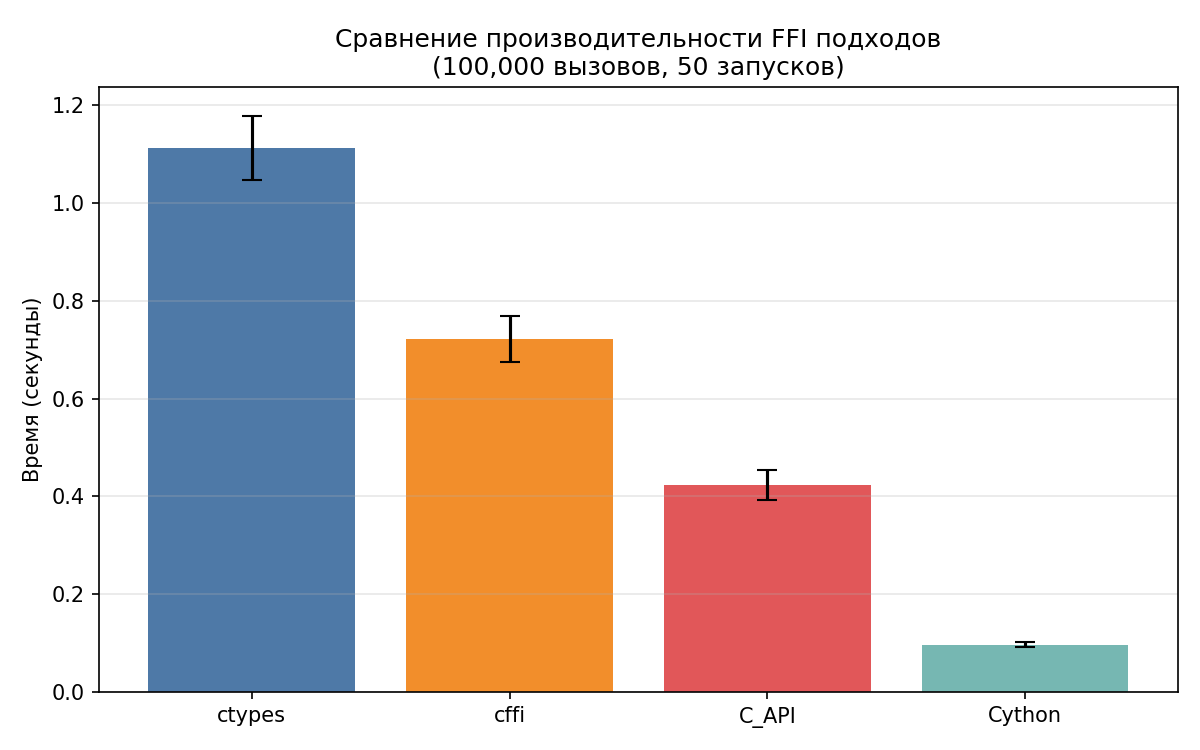
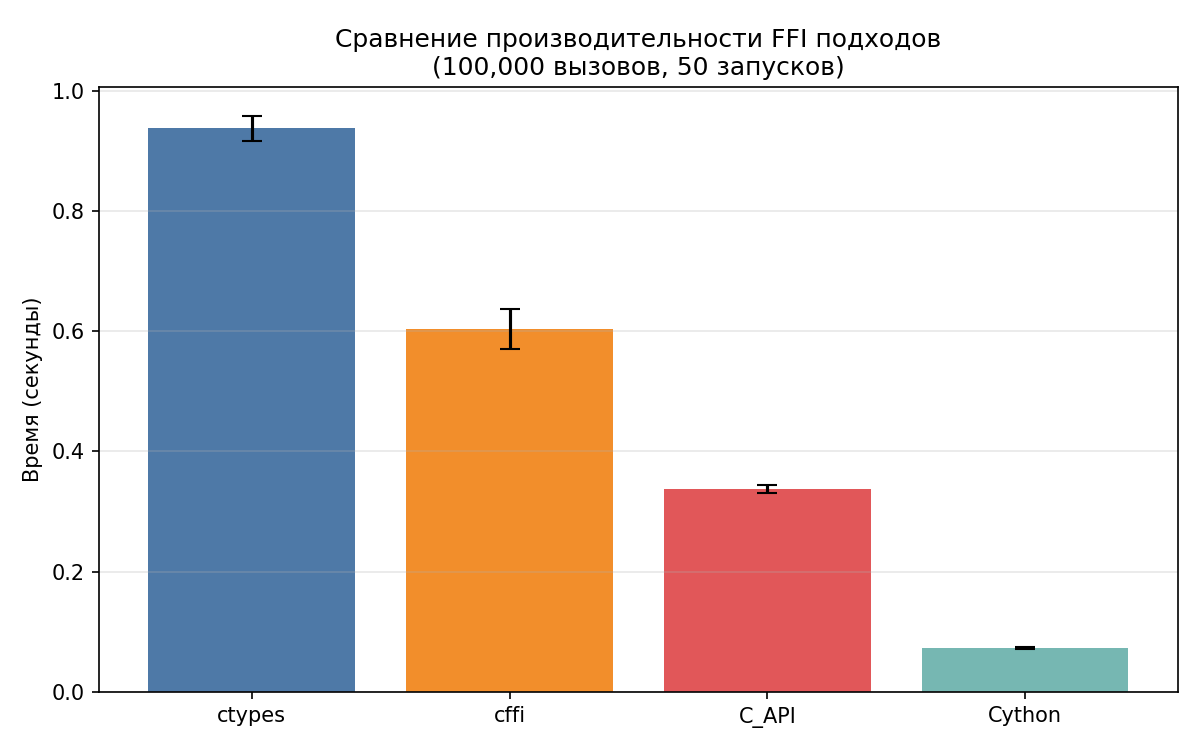
lab 5 end

diff --git a/practice/lab5/python_capi/module.c b/practice/lab5/python_capi/module.c
@@ -57,11 +57,6 @@ static PyObject* py_dot_product(PyObject* self, PyObject* args) {
         goto cleanup;
     }
 
-    if (len_a != len_b) {
-        PyErr_SetString(PyExc_ValueError, "Vectors must have the same length");
-        goto cleanup;
-    }
-
     double result;
     if (dot_product(a, b, (size_t)len_a, &result) != 0) {
         PyErr_SetString(PyExc_RuntimeError, "dot_product failed internally");

diff --git a/practice/lab5/benchmark/result.md b/practice/lab5/benchmark/result.md
@@ -15,3 +15,5 @@
 
 > Для высоконагруженных вычислений и работы с массивами данных используйте **Cython** — максимальная производительность при удобном синтаксисе.  
 > Для простых скриптов, прототипирования или редких вызовов достаточно **ctypes** — минимальные усилия на подключение без необходимости компиляции.
+
+![alt text](image.png)
